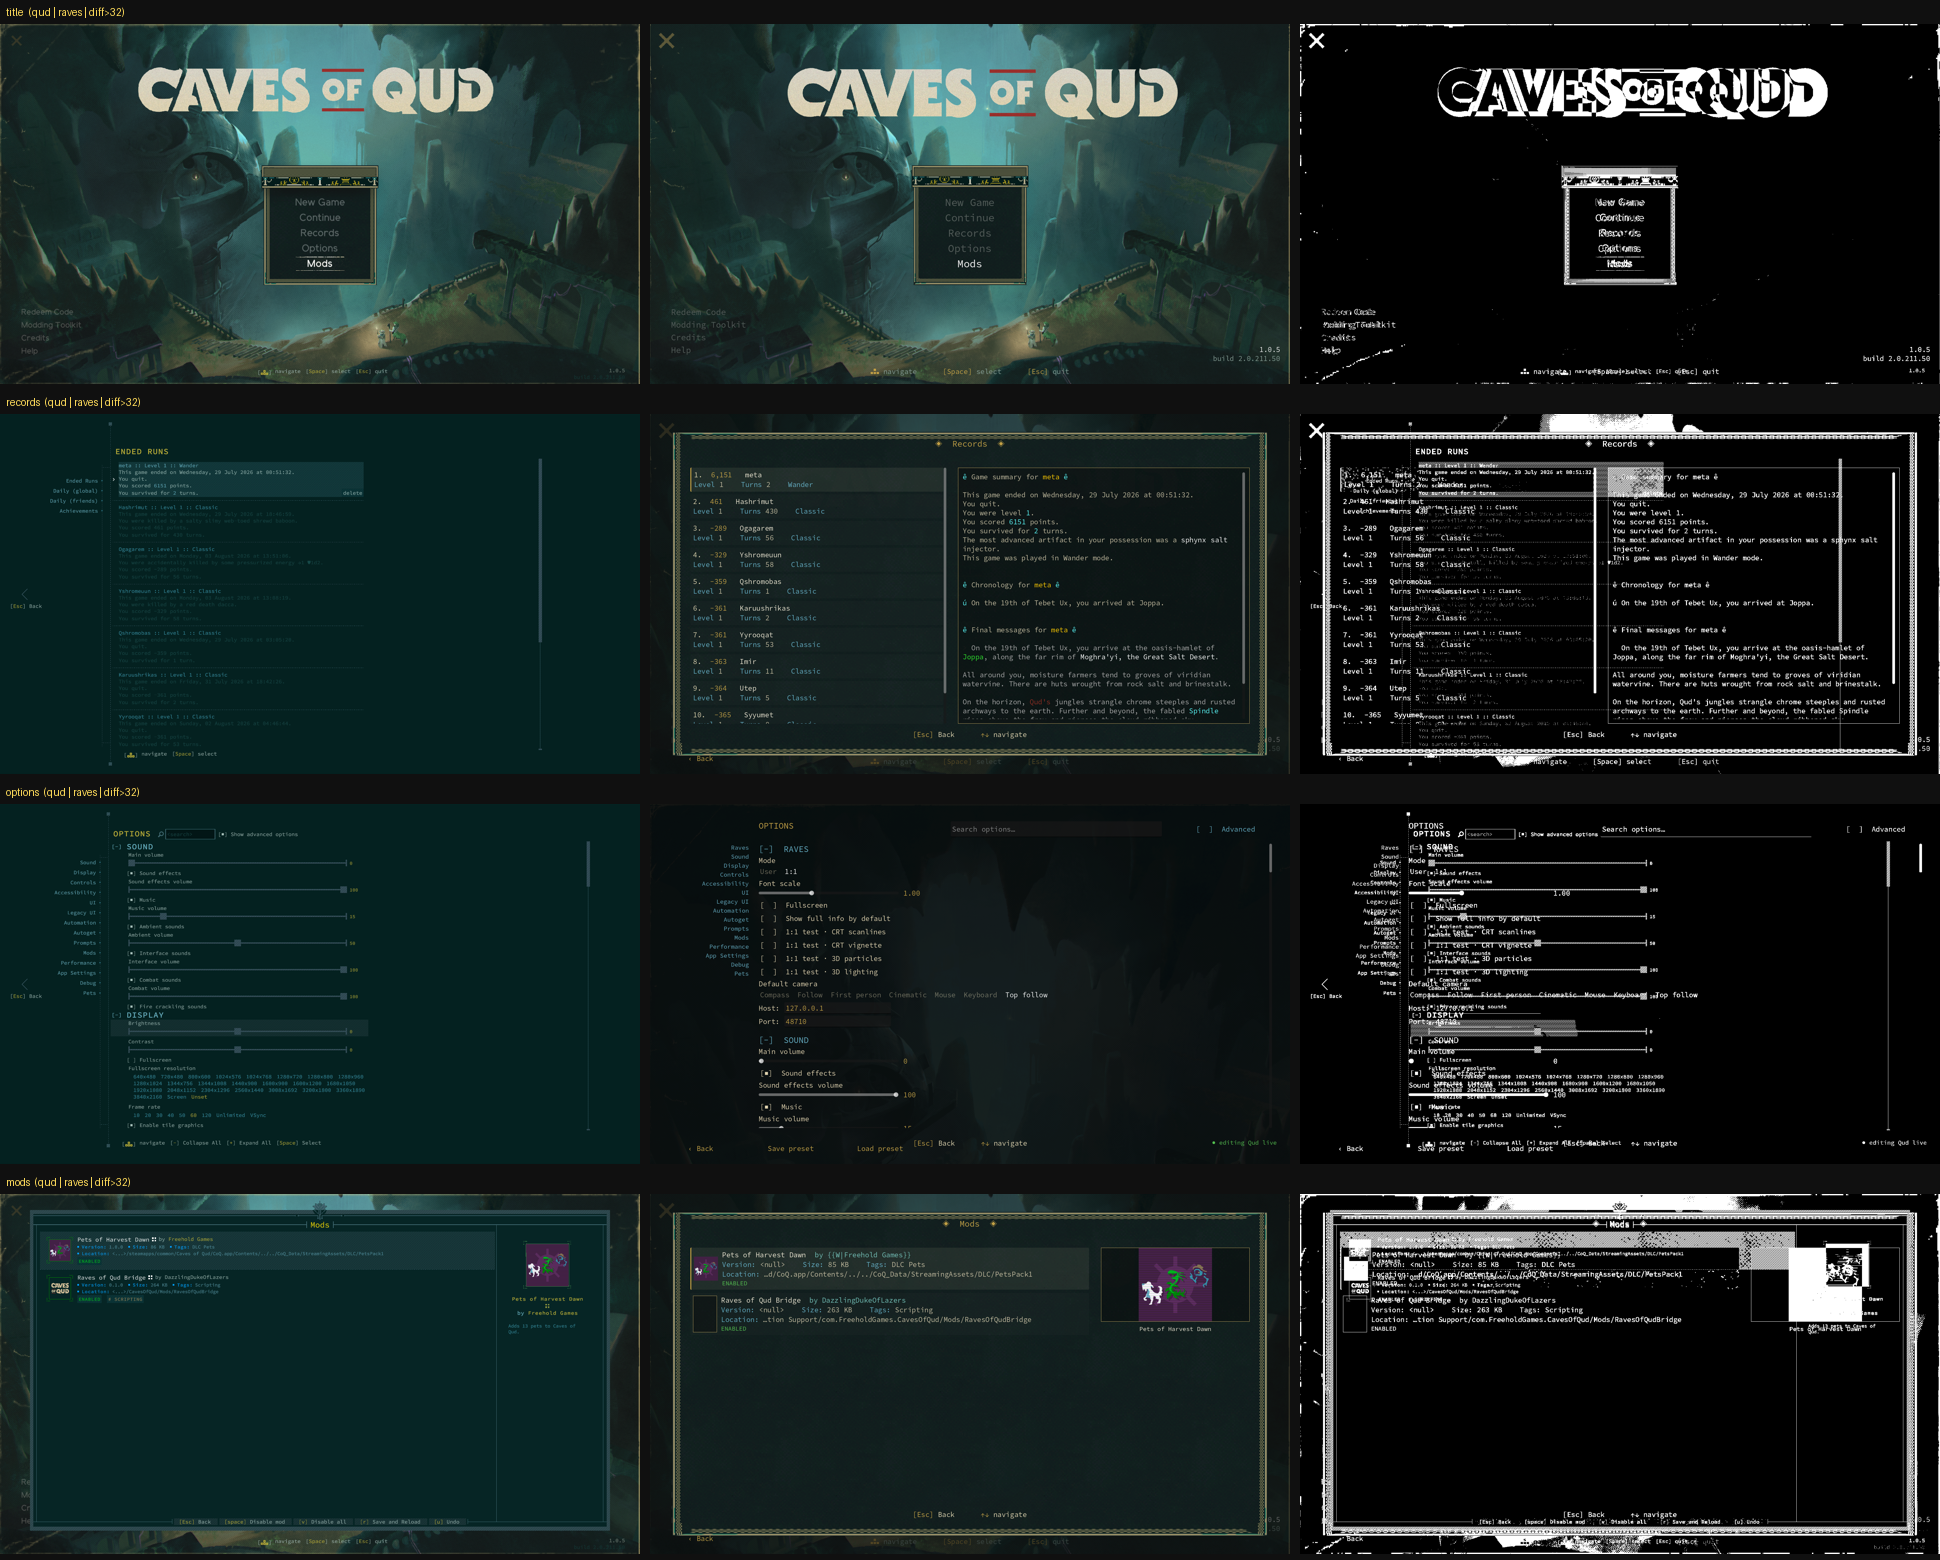
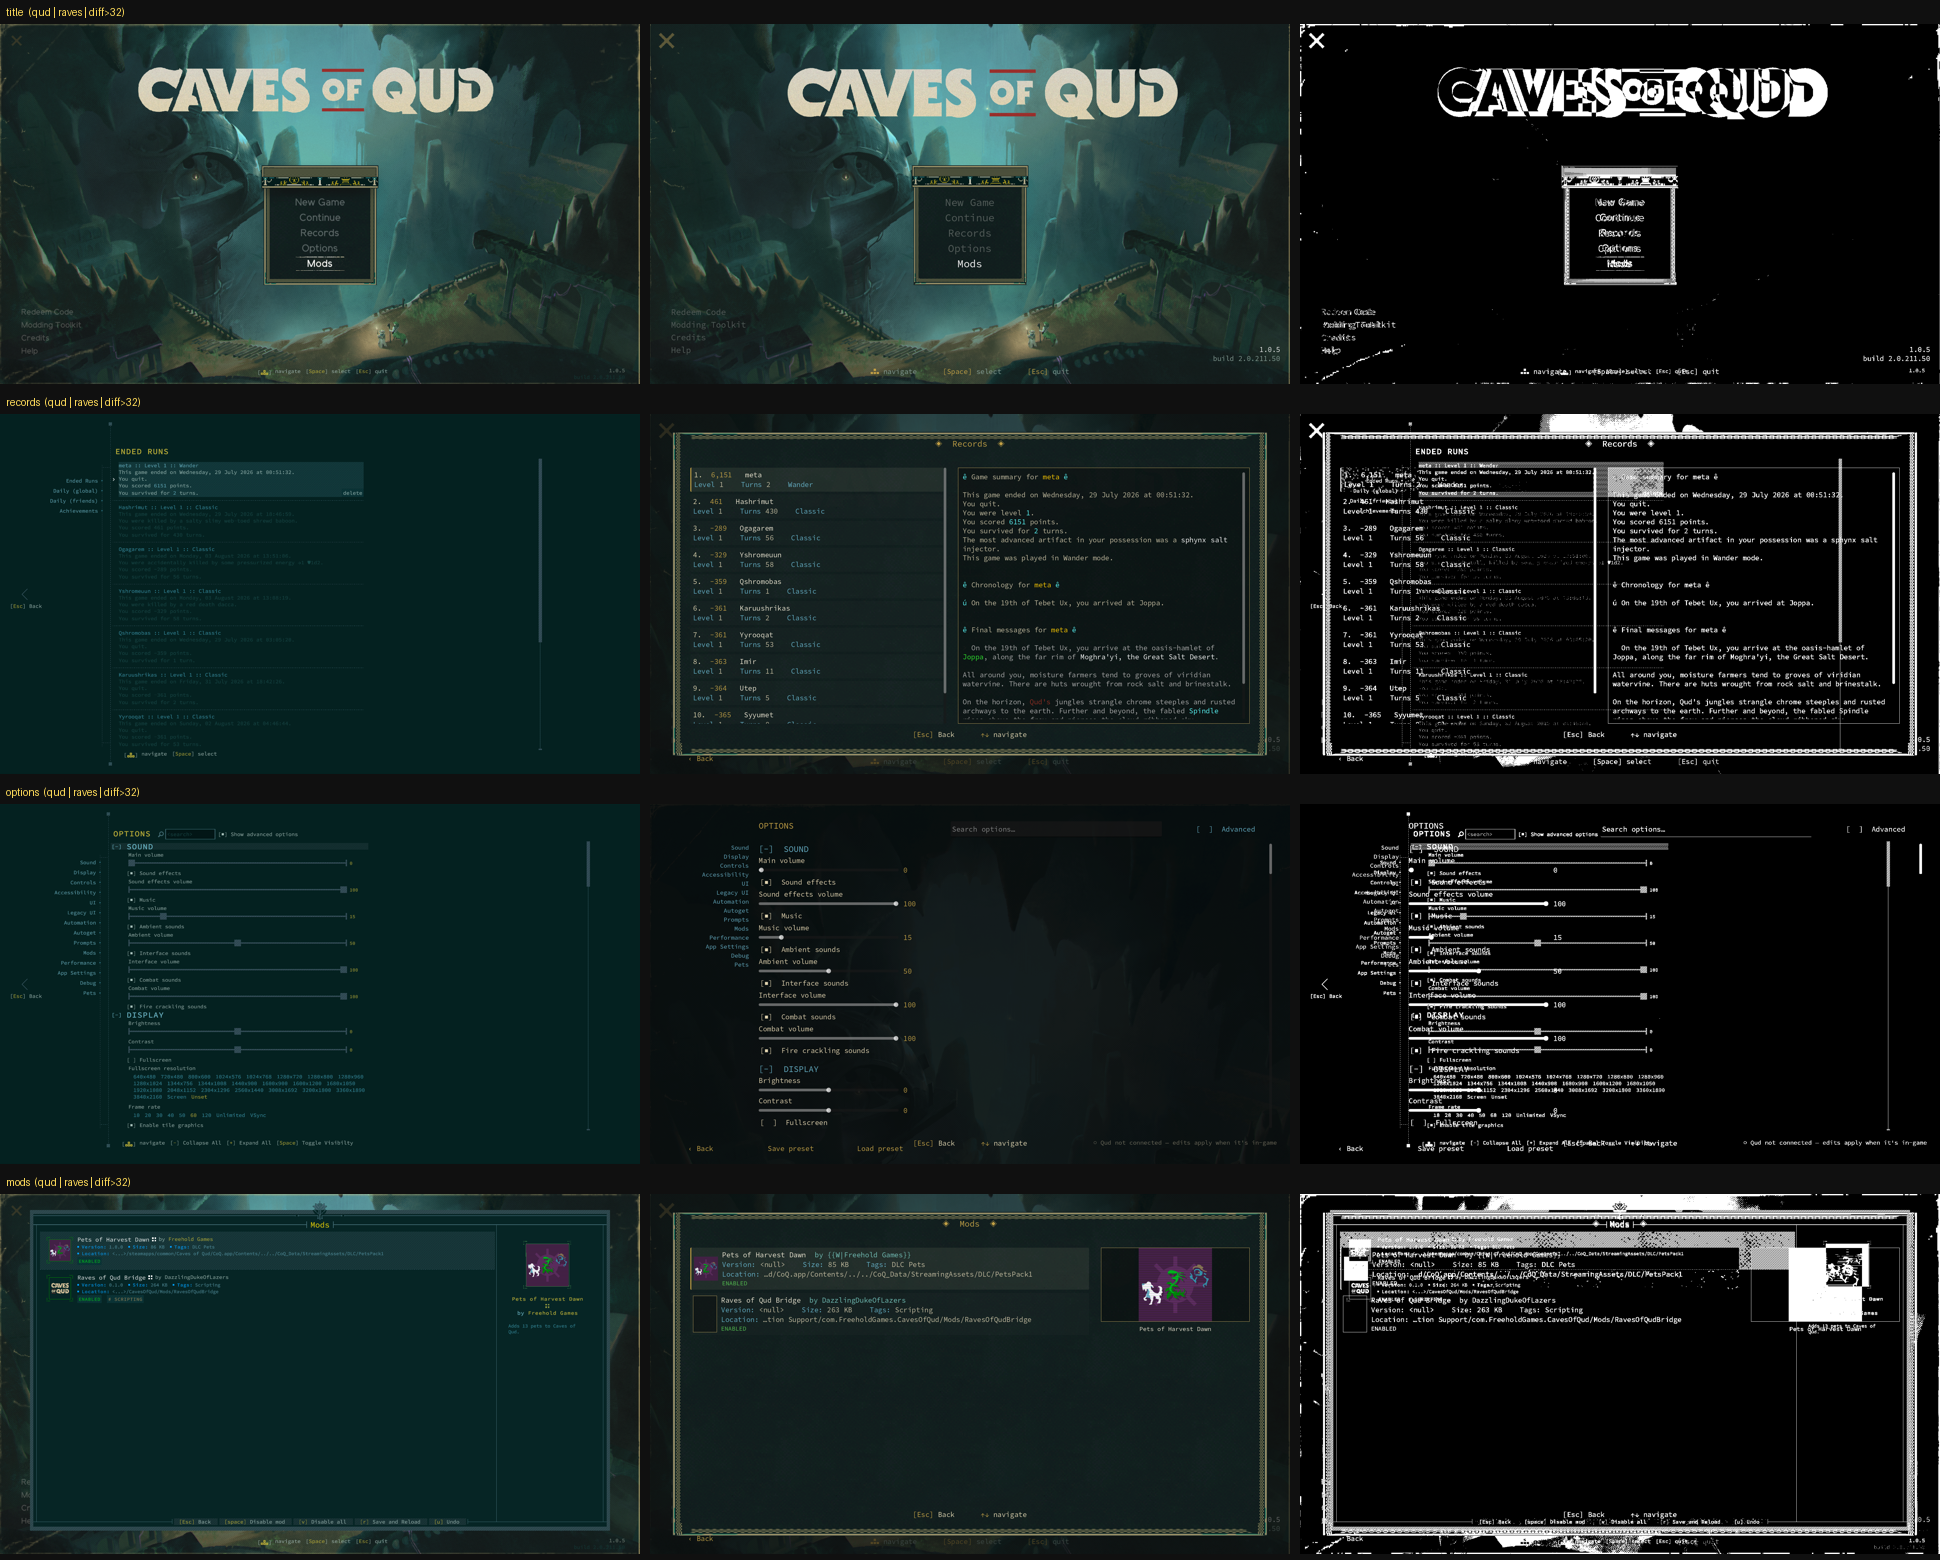
--one-to-one launch flag: 1:1 locked, Options hides the RAVES section
Settings: --one-to-one / --1to1 on the command line sets one_to_one_only and
forces one_to_one() true for the run (settings.json untouched). OptionsScreen
drops the RAVES section + sidebar entry under the flag — Qud's options has no
such section, and hiding it IS the lock: no Mode row, no toggle back to user
(launch without the flag for that). raves_solo now passes the flag, so every
supervised parity run is 1:1-only; doubles as the pressure valve for user-mode
UI missing a 1:1 gate.

Mod uiback-g: resolve the cancel target by ACTIVE VIEW NAME (UIManager.getWindow)
when currentWindow is null — Qud nulls it on some view transitions, which sent
the ladder down to a nav CancelButton that reported handled without closing the
Mods screen. Validated: mods->title->options green post-restart.

Changed region(s): [[0.6804, 0.5231, 0.866, 0.7385], [0.3711, 0.5538, 0.4639, 0.7385]]

diff --git a/mod/Bridge.cs b/mod/Bridge.cs
@@ -515,6 +515,16 @@ namespace RavesOfQud
                                 {
                                     var uim = Qud.UI.UIManager.instance;
                                     var wnd = (uim != null) ? uim.currentWindow : null;
+                                    if (wnd == null)
+                                    {
+                                        // currentWindow is nulled on some view transitions —
+                                        // resolve by the ACTIVE VIEW NAME instead (the same
+                                        // string our heartbeat reports as the scene).
+                                        var view = GameManager.Instance != null
+                                            ? GameManager.Instance._ActiveGameView : null;
+                                        if (!string.IsNullOrEmpty(view))
+                                            try { wnd = Qud.UI.UIManager.getWindow(view); } catch { }
+                                    }
                                     if (wnd != null)
                                     {
                                         var mi = wnd.GetType().GetMethod("OnCancel", System.Type.EmptyTypes);

diff --git a/mod/Protocol.cs b/mod/Protocol.cs
@@ -18,7 +18,7 @@ namespace RavesOfQud
         /// no way to tell from the outside whether the running code included a
         /// given fix. Every snapshot now says. Bump this when changing the mod.
         /// </summary>
-        public const string Build = "2026-08-03 uiback-f";
+        public const string Build = "2026-08-03 uiback-g";
 
         /// <summary>
         /// Monotonic WIRE version — bump whenever a change to the snapshot format makes a newer client

diff --git a/reports/2026-08-03-menu-parity/scoreboard.md b/reports/2026-08-03-menu-parity/scoreboard.md
@@ -8,7 +8,7 @@ channel Δ>32. Playfield congruence for reference: mean-diff ≈ 2, hot ≈ 0%.
 | screen  | meanAbsDiff | %px>32 | verdict |
 |---------|------------:|-------:|---------|
 | title   |  7.35 |  6.6% | layout aligns after the chromeless fix; remaining heat = wordmark x-offset, menu hover/selection styling, hint bar, version-line ("build …" extra in Raves) |
-| options | 15.56 |  4.6% | partially mirrored (SOUND sliders etc.) but Raves is a narrow centred column with its own RAVES section + Save/Load preset bar; Qud is a full-width two-pane with left category rail |
+| options | 15.80 |  4.8% | RAVES section now HIDDEN under --one-to-one (raves_solo passes it; 1:1 locked for the run) — remaining delta is pure layout: Raves is a narrow centred column + Save/Load preset bar; Qud is a full-width two-pane with left category rail |
 | records | 18.44 | 11.0% | different design generation: Raves = "◆ Records ◆" score-list + summary pane; Qud = ENDED RUNS entry stack with left rail (Ended Runs / Daily ×2 / Achievements) + per-entry delete |
 | mods    | 16.50 | 15.5% | closest content (same two mods, same metadata lines); differs in frame ("◆ Mods ◆"), selection styling, preview pane behaviour, bottom command bar (Qud: space/v/Save+Reload/undo) |
 

diff --git a/CLAUDE.md b/CLAUDE.md
@@ -117,6 +117,10 @@ place — that manual thrash burns whole sessions and is the #1 recurring failur
 ```bash
 hv launch raves          # THE pair start: Raves spawns Qud borderless; both auto-placed
 hv launch raves_solo     # just Raves (no Qud spawn) · qud_solo = just Qud (borderless args)
+                         # raves_solo passes --one-to-one: 1:1 LOCKED for the run — the Options
+                         # screen hides the RAVES section (Qud has none), so there is no toggle
+                         # back to user mode; launch the .app without the flag for user mode.
+                         # Gate ALL user-mode-only UI on Settings.one_to_one_only / one_to_one().
 hv state                 # which screen is each app on (first-party scene reports, no guessing)
 hv goto qud in_game      # drive an app to a state-tree node (recipes in highvisor/gametree.json)
 hv assert --app raves --node in_game --timeout 20   # block until a state holds (TDD; exit 0/1)
